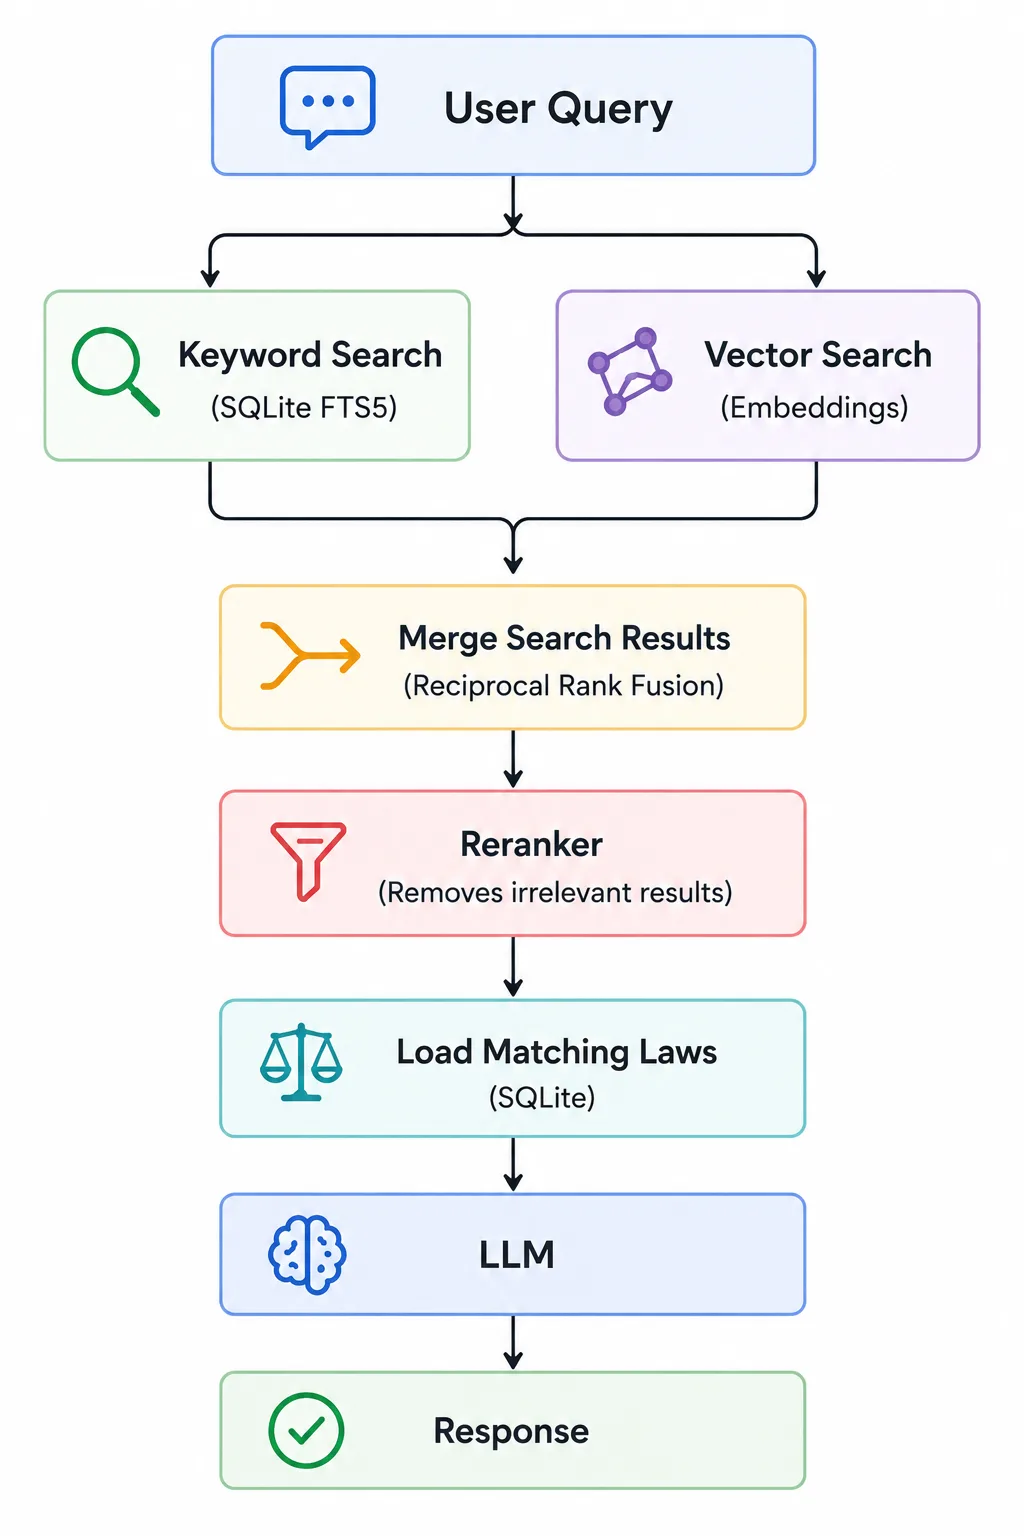
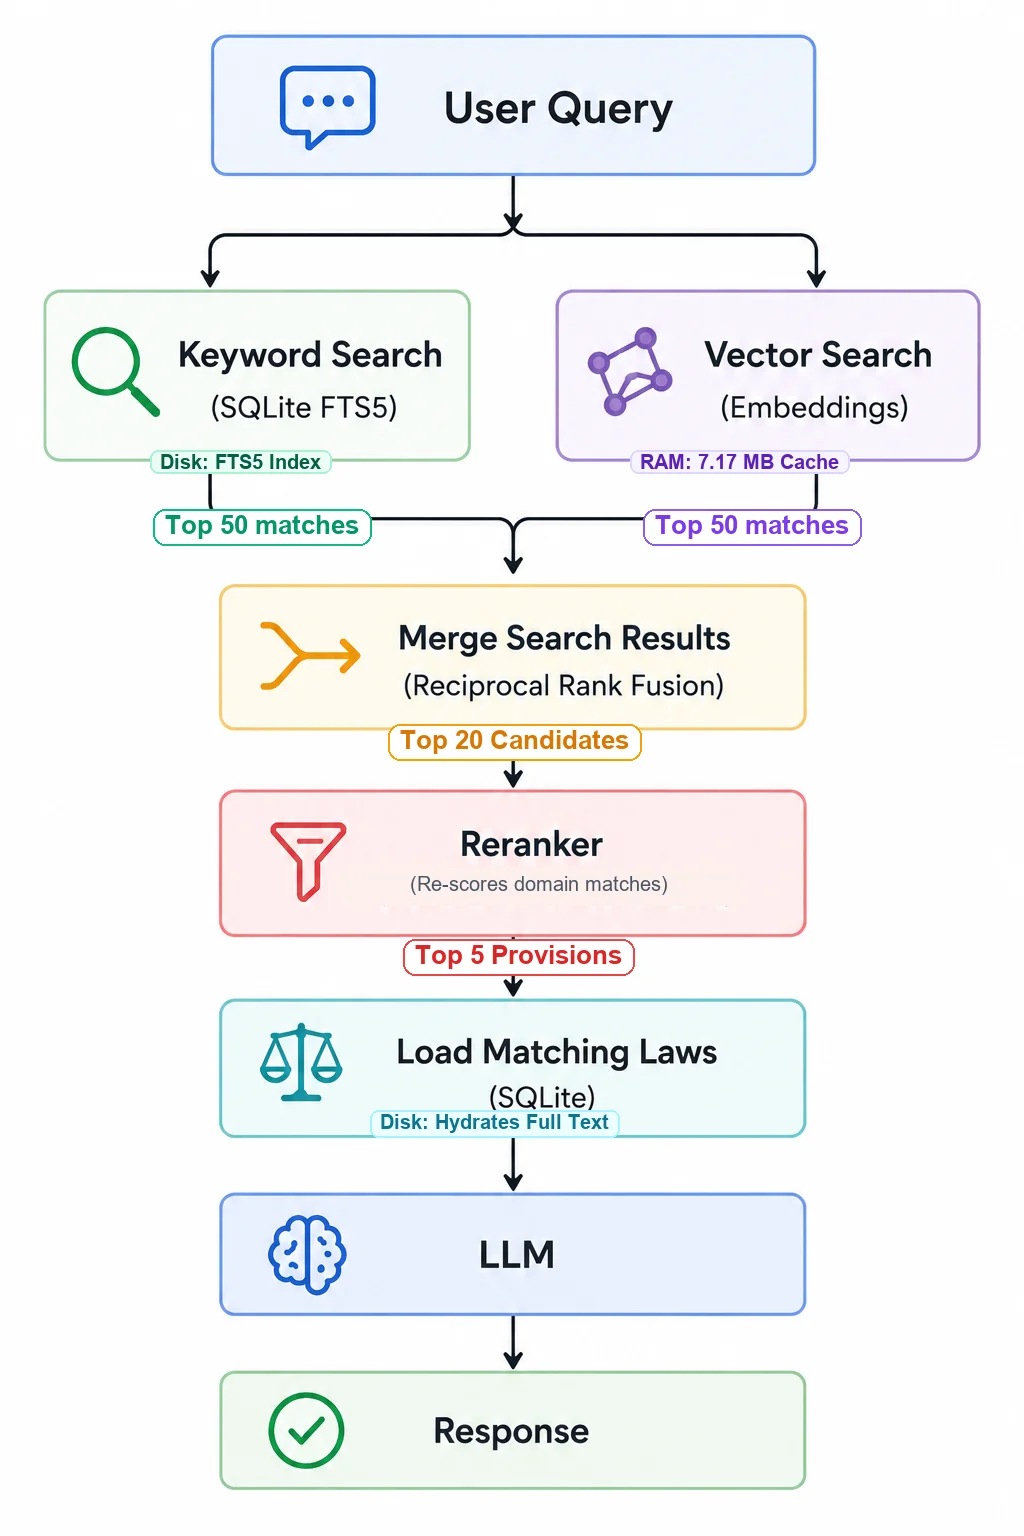
feat(blog): update developer notes dashboard screenshot and annotate diagram pipeline with 50-20-5 funnel

diff --git a/content/blog/sqlite-fts5-dense-hybrid-retrieval.md b/content/blog/sqlite-fts5-dense-hybrid-retrieval.md
@@ -114,7 +114,7 @@ Application RAM
 
 ![Process Resident Memory (RSS) and Heap comparison between v1 and v2](/img/blog/sqlite-fts5-dense-hybrid-retrieval/chart_memory.webp)
 
-The important architectural change was not simply using SQLite. We stopped loading the entire legal corpus as JavaScript objects. The full text stays on disk, while only the compact vector representation needed for scoring stays in memory.
+The important architectural change was not simply using SQLite. We stopped loading the entire legal corpus as heavy JavaScript objects. The full text stays on disk, while we keep only document IDs and compact `Float32Array` embeddings in memory for scoring.
 
 When a query runs, the system scores the compact vectors, searches the SQLite full-text index, and fetches the full legal text from SQLite only for the final top matches. This reduced active JavaScript heap usage from roughly 438 MB to 16 MB.
 
